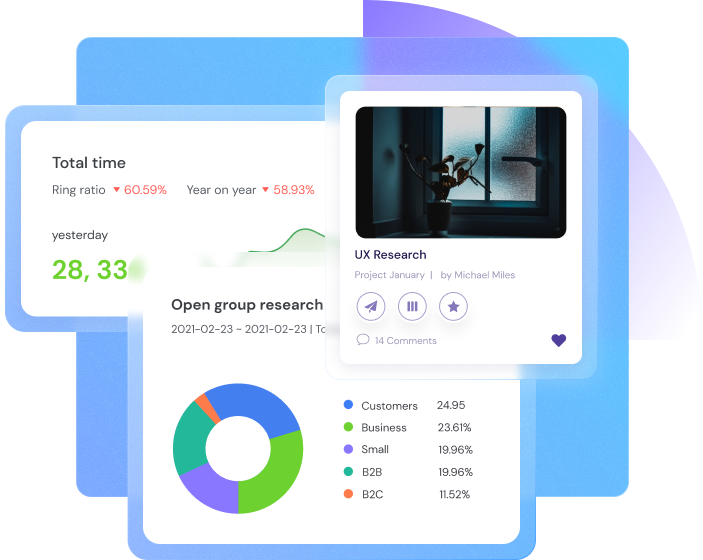
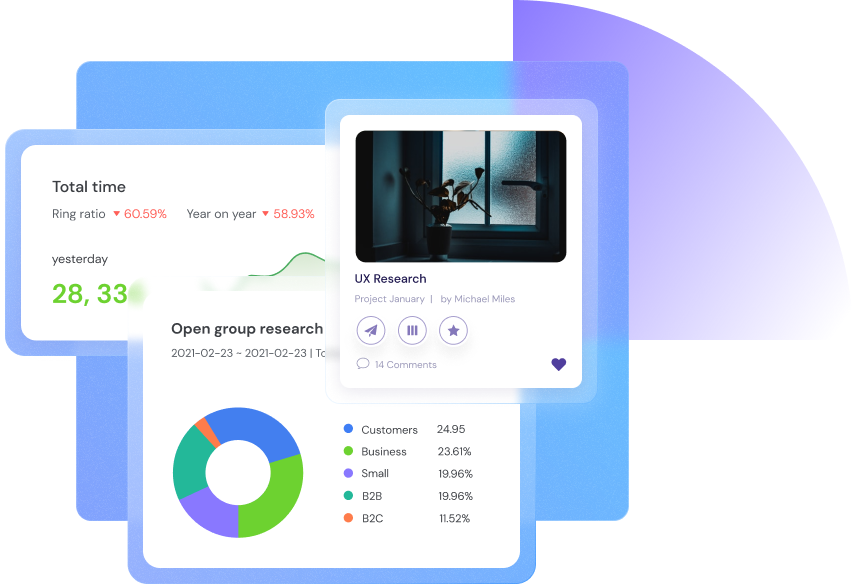
CSS Fixes

diff --git a/style.css b/style.css
@@ -114,7 +114,7 @@ img {
 .title__white {
   text-transform: uppercase;
   font-size: 12px;
-  font-weight: 700;
+  font-weight: 500;
   line-height: 122%;
   opacity: 0.5;
 }
@@ -150,7 +150,7 @@ img {
   justify-content: center;
 }
 
-@media only screen and (max-device-width: 1023px) {
+@media only screen and (min-device-width: 1023px) {
   .hero__bg {
     padding: 120px 0 264px;
   }
@@ -177,6 +177,32 @@ img {
 
 .navbar__logo {
   width: 259px;
+}
+
+@media screen and (max-device-width: 1281px) {
+  .navbar {
+    justify-content: center;
+  }
+}
+
+.navbar_items-medium_screens {
+  display: none;
+}
+
+@media screen and (max-device-width: 1281px) and (min-device-width: 913px) {
+  .navbar_items {
+    display: none;
+  }
+
+  .navbar {
+    justify-content: space-between;
+  }
+
+  .navbar_items-medium_screens {
+    display: flex;
+    justify-content: center;
+    gap: 20px;
+  }
 }
 
 .navbar_items__item {
@@ -726,9 +752,10 @@ img {
 
 .start_working__left_right {
   display: flex;
-  justify-content: center;
+  justify-content: space-between;
   align-items: center;
   padding: 120px 0 80px;
+  width: 100%;
 }
 
 .start_working__left {
@@ -738,11 +765,11 @@ img {
 }
 
 .start_working__subtitle {
-  width: 400px;
+  max-width: 400px;
 }
 
 .start_working__desc {
-  width: 400px;
+  max-width: 400px;
   margin-bottom: 10px;
 }
 
@@ -753,10 +780,10 @@ img {
 }
 
 .start_working__chart_img {
-  width: 350px;
+  width: 750px;
 }
 
-@media only screen and (max-device-width: 480px) {
+@media only screen and (max-device-width: 1279px) {
   .start_working__left_right {
     flex-direction: column-reverse;
     gap: 20px;

diff --git a/index.html b/index.html
@@ -32,6 +32,14 @@
                 </ul>
                 <div class="navbar__button button"><span class="button__text">Get started</span></div>
             </div>
+            <ul class="navbar_items-medium_screens">
+                <li class="navbar_items__item">Home</li>
+                <li class="navbar_items__item">Your benefits</li>
+                <li class="navbar_items__item">Our process</li>
+                <li class="navbar_items__item">Our works</li>
+                <li class="navbar_items__item">Testimonials</li>
+                <li class="navbar_items__item">Start a project</li>
+            </ul>
             <div class="hero__title"><span class="hero__main-title">A Digital Product Design Agency</span></div>
             <div class="hero__subtitle"><span class="hero__subtitle_text">We are Creative and Professional Digital
                     Agency</span></div>
